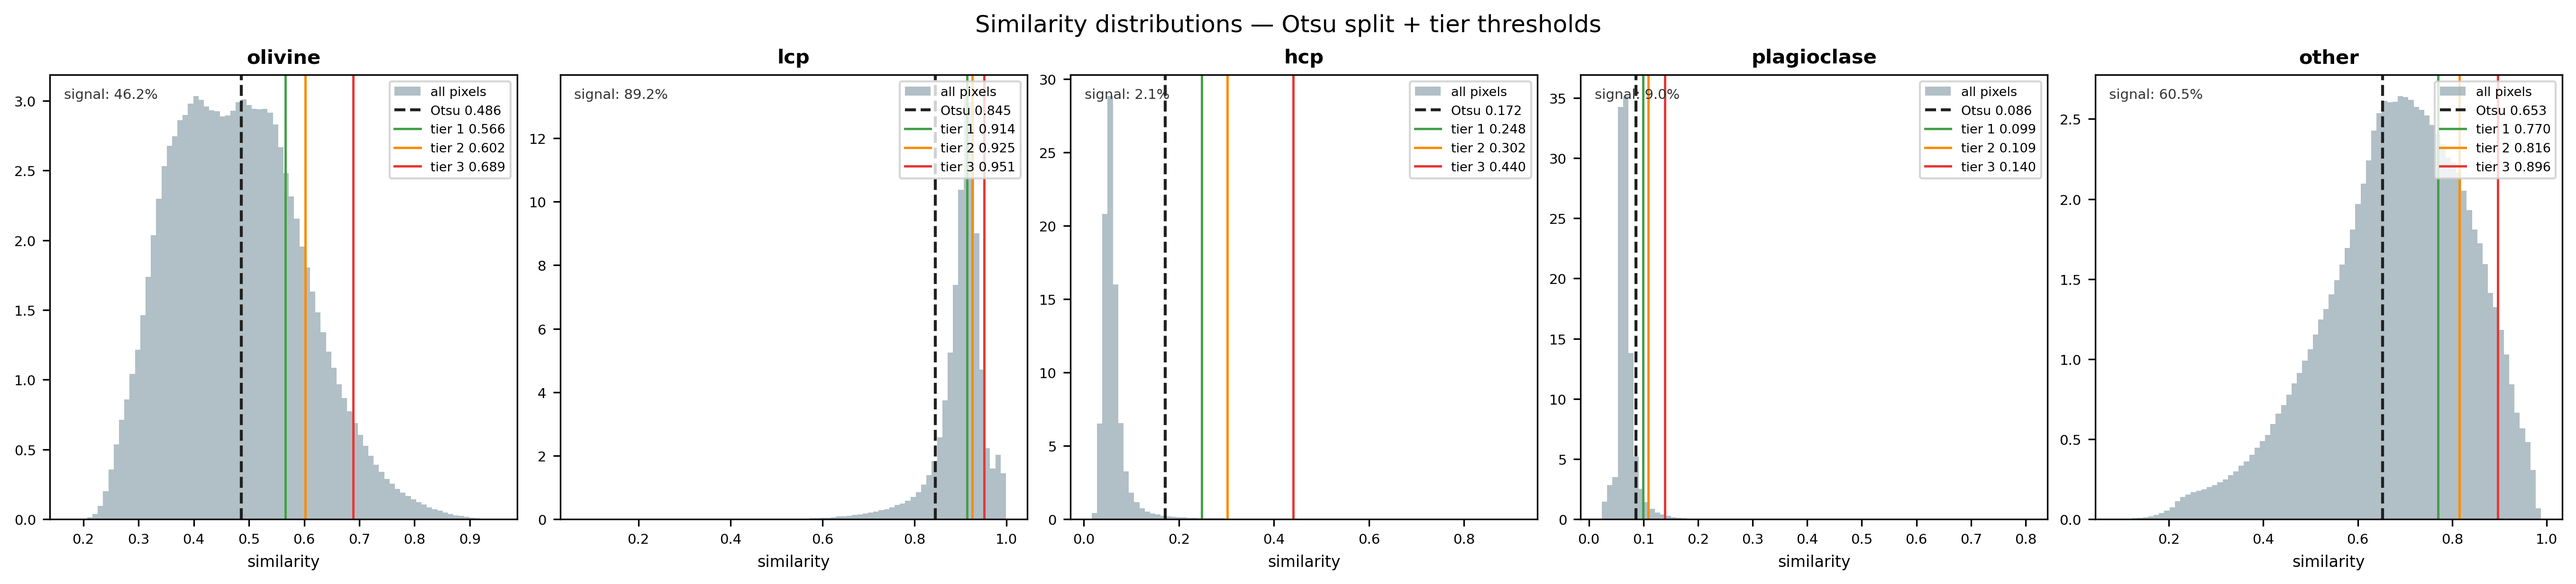
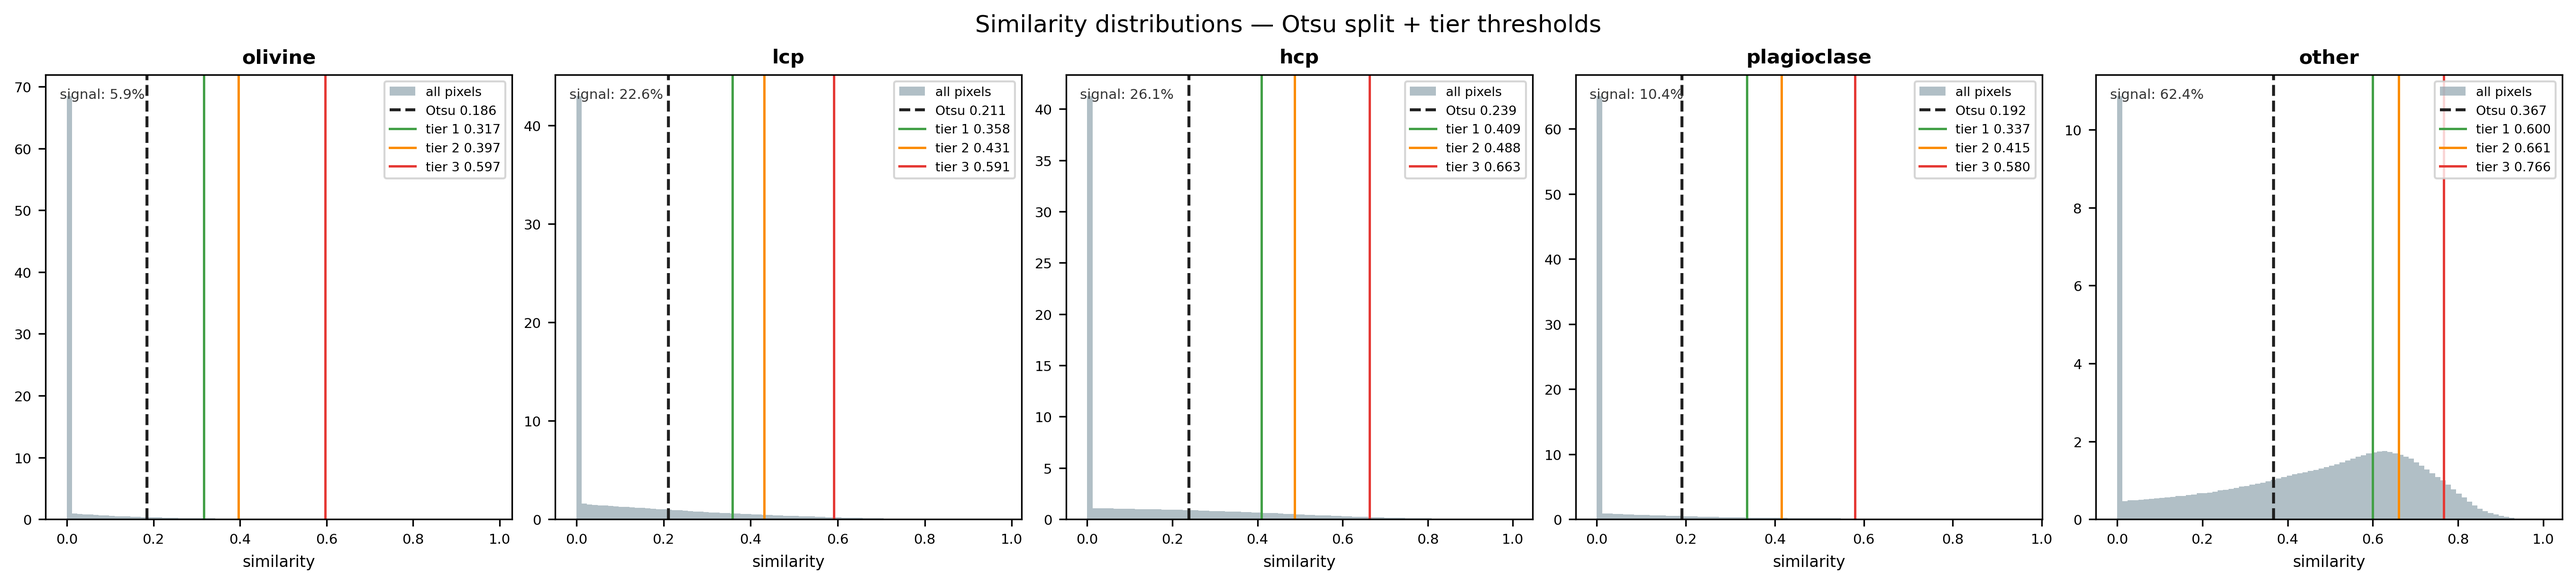
feat: PCA-whitened prototype similarity + Otsu thresholds on 7-component embedding

diff --git a/scripts/plot_threshold_distributions.py b/scripts/plot_threshold_distributions.py
@@ -29,8 +29,8 @@ from scripts.fig_style import DPI
 
 PROJ = os.path.dirname(os.path.dirname(os.path.abspath(__file__)))
 PROBS = [
-    '/tmp/t0435_mrral_40s323_0327_4_probs.npz',
-    '/tmp/t0434_mrral_40s318_0327_4_probs.npz',
+    '/tmp/t0435_proto_pca95_probs.npz',
+    '/tmp/t0434_proto_pca95_probs.npz',
 ]
 CLASS_NAMES = ['olivine', 'lcp', 'hcp', 'plagioclase', 'other']
 SIGNAL_PERCENTILES = [50, 67, 90]
